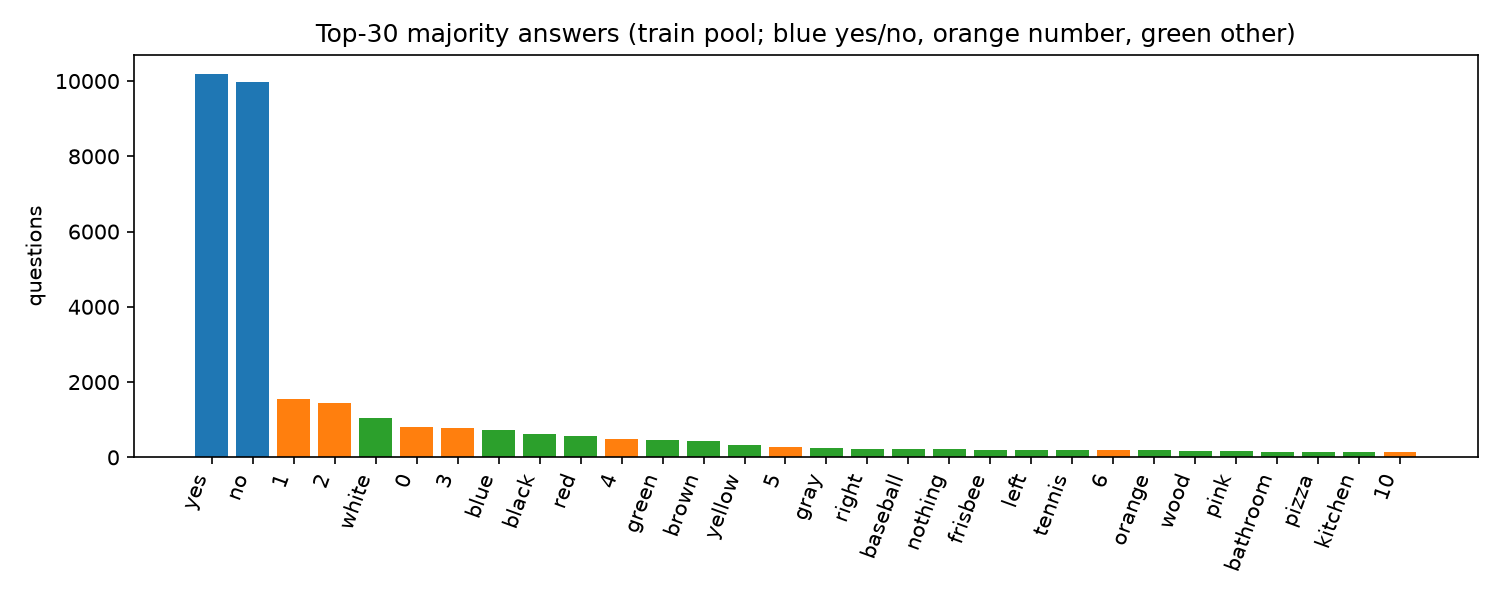
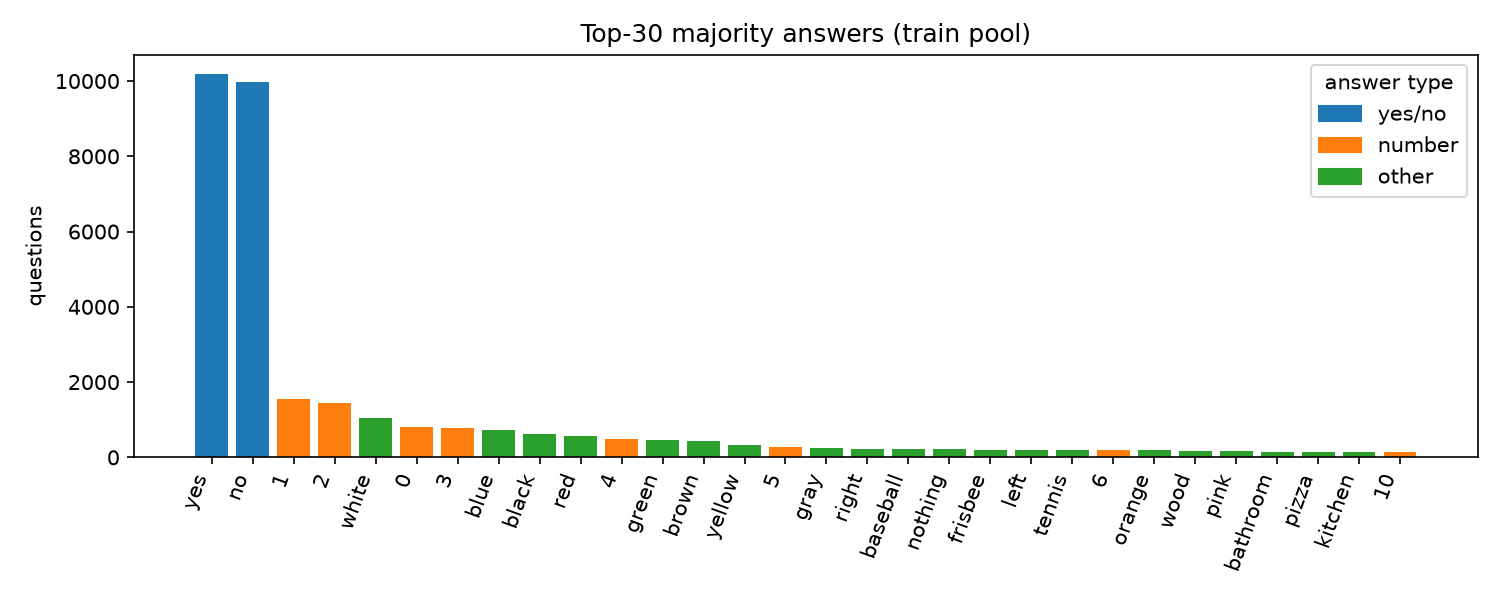
fix(a3): plot labels for F2-F5 (legend, label overlap, title, y-axis)

Changed region(s): [[0.2147, 0.03, 0.8587, 0.09], [0.8587, 0.09, 0.9813, 0.33]]

diff --git a/assignment3/eda/vqa_eda.py b/assignment3/eda/vqa_eda.py
@@ -561,7 +561,9 @@ def save_figures(sub_tr, sub_te, img_df, clip_df, out: Path, data_dir: Path, see
     plt.bar([a for a, _ in top], [c for _, c in top],
             color=[colours.get(atype.get(a), "gray") for a, _ in top])
     plt.xticks(rotation=70, ha="right"); plt.ylabel("questions")
-    plt.title("Top-30 majority answers (train pool; blue yes/no, orange number, green other)")
+    plt.title("Top-30 majority answers (train pool)")
+    from matplotlib.patches import Patch
+    plt.legend(handles=[Patch(color=c, label=t) for t, c in colours.items()], title="answer type")
     _save(figs, "F2_top30_answers.png")
 
     # F3 cumulative coverage of questions vs vocabulary size K
@@ -573,7 +575,7 @@ def save_figures(sub_tr, sub_te, img_df, clip_df, out: Path, data_dir: Path, see
     for k in (100, 1000, 3000):
         if k <= len(cum):
             plt.axvline(k, ls="--", c="gray")
-            plt.text(k, 5, f"K={k}: {cum[k - 1]:.1f}%", rotation=90, fontsize=8)
+            plt.text(k * 0.92, 35, f"K={k}: {cum[k - 1]:.1f}%", rotation=90, fontsize=8, ha="right")
     plt.xlabel("answer vocabulary size K (log)"); plt.ylabel("% of train-pool questions covered")
     plt.title("Answer coverage vs vocabulary size")
     _save(figs, "F3_answer_coverage_curve.png")
@@ -582,7 +584,7 @@ def save_figures(sub_tr, sub_te, img_df, clip_df, out: Path, data_dir: Path, see
     qt = sub_tr["question_type"].value_counts(normalize=True).head(20).mul(100)[::-1]
     plt.figure(figsize=(7, 6))
     plt.barh(qt.index, qt.values); plt.xlabel("% of train-pool questions")
-    plt.title("Top-20 question types")
+    plt.title("Top-20 question prefixes (overlapping, not exclusive types)")
     _save(figs, "F4_question_types.png")
 
     # F5 question length, questions per image, answer length
@@ -593,6 +595,8 @@ def save_figures(sub_tr, sub_te, img_df, clip_df, out: Path, data_dir: Path, see
     axs[1].set_xlabel("questions per image"); axs[1].set_title("Questions per image")
     axs[2].hist(both["mc_answer"].str.split().str.len(), bins=range(0, 8))
     axs[2].set_xlabel("words per majority answer"); axs[2].set_title("Answer length")
+    for a in axs:
+        a.set_ylabel("count")
     _save(figs, "F5_lengths.png")
 
     # F6 annotator agreement by answer type
